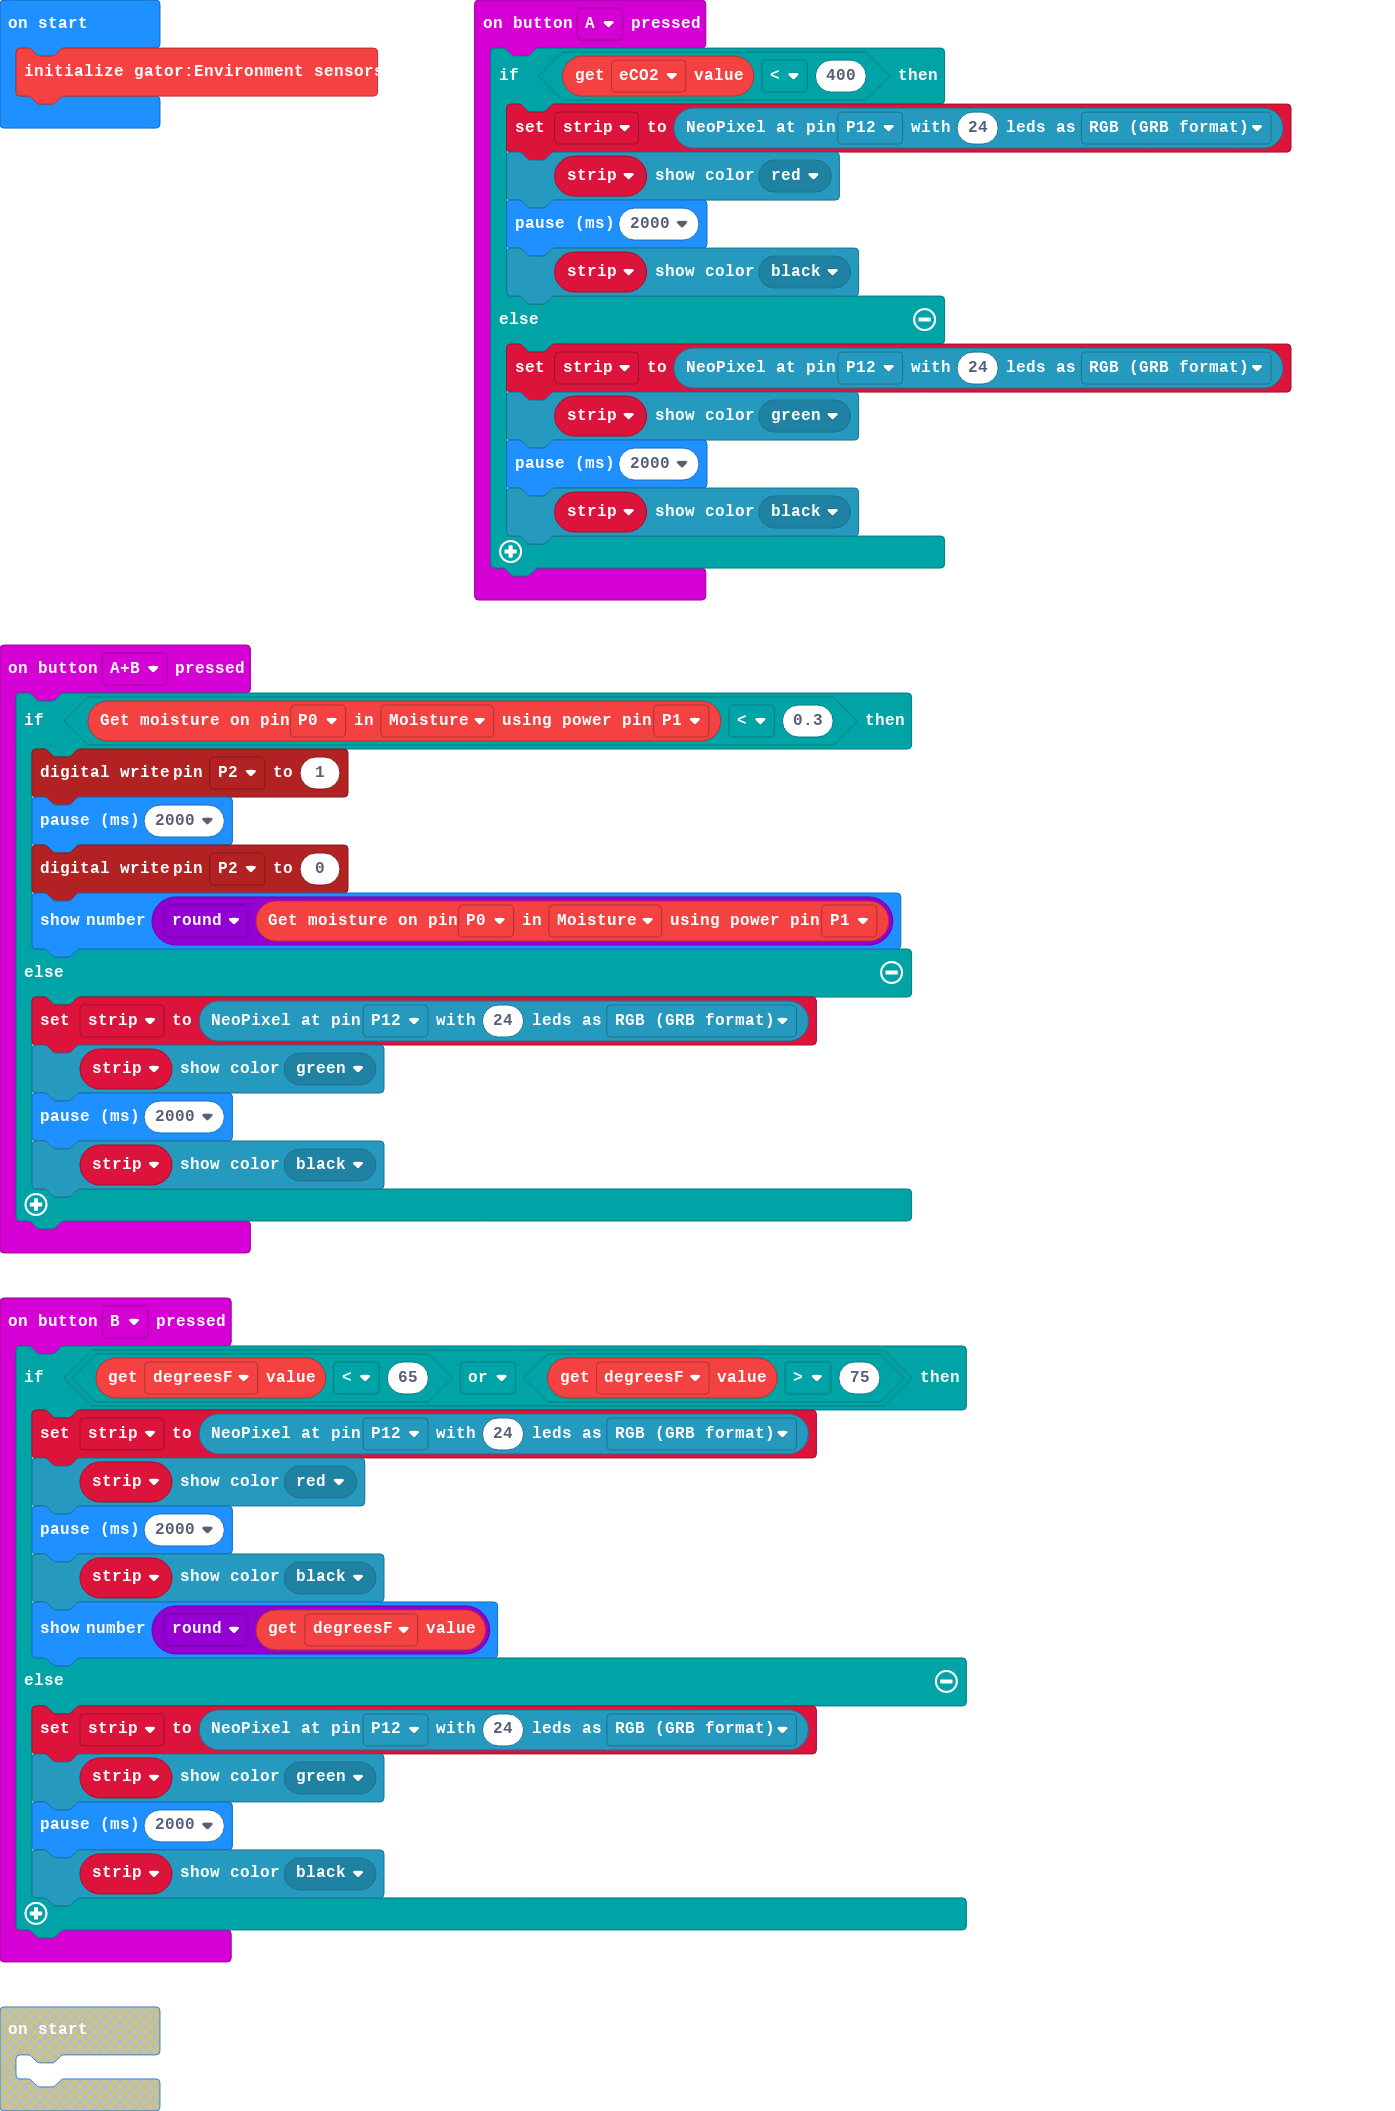
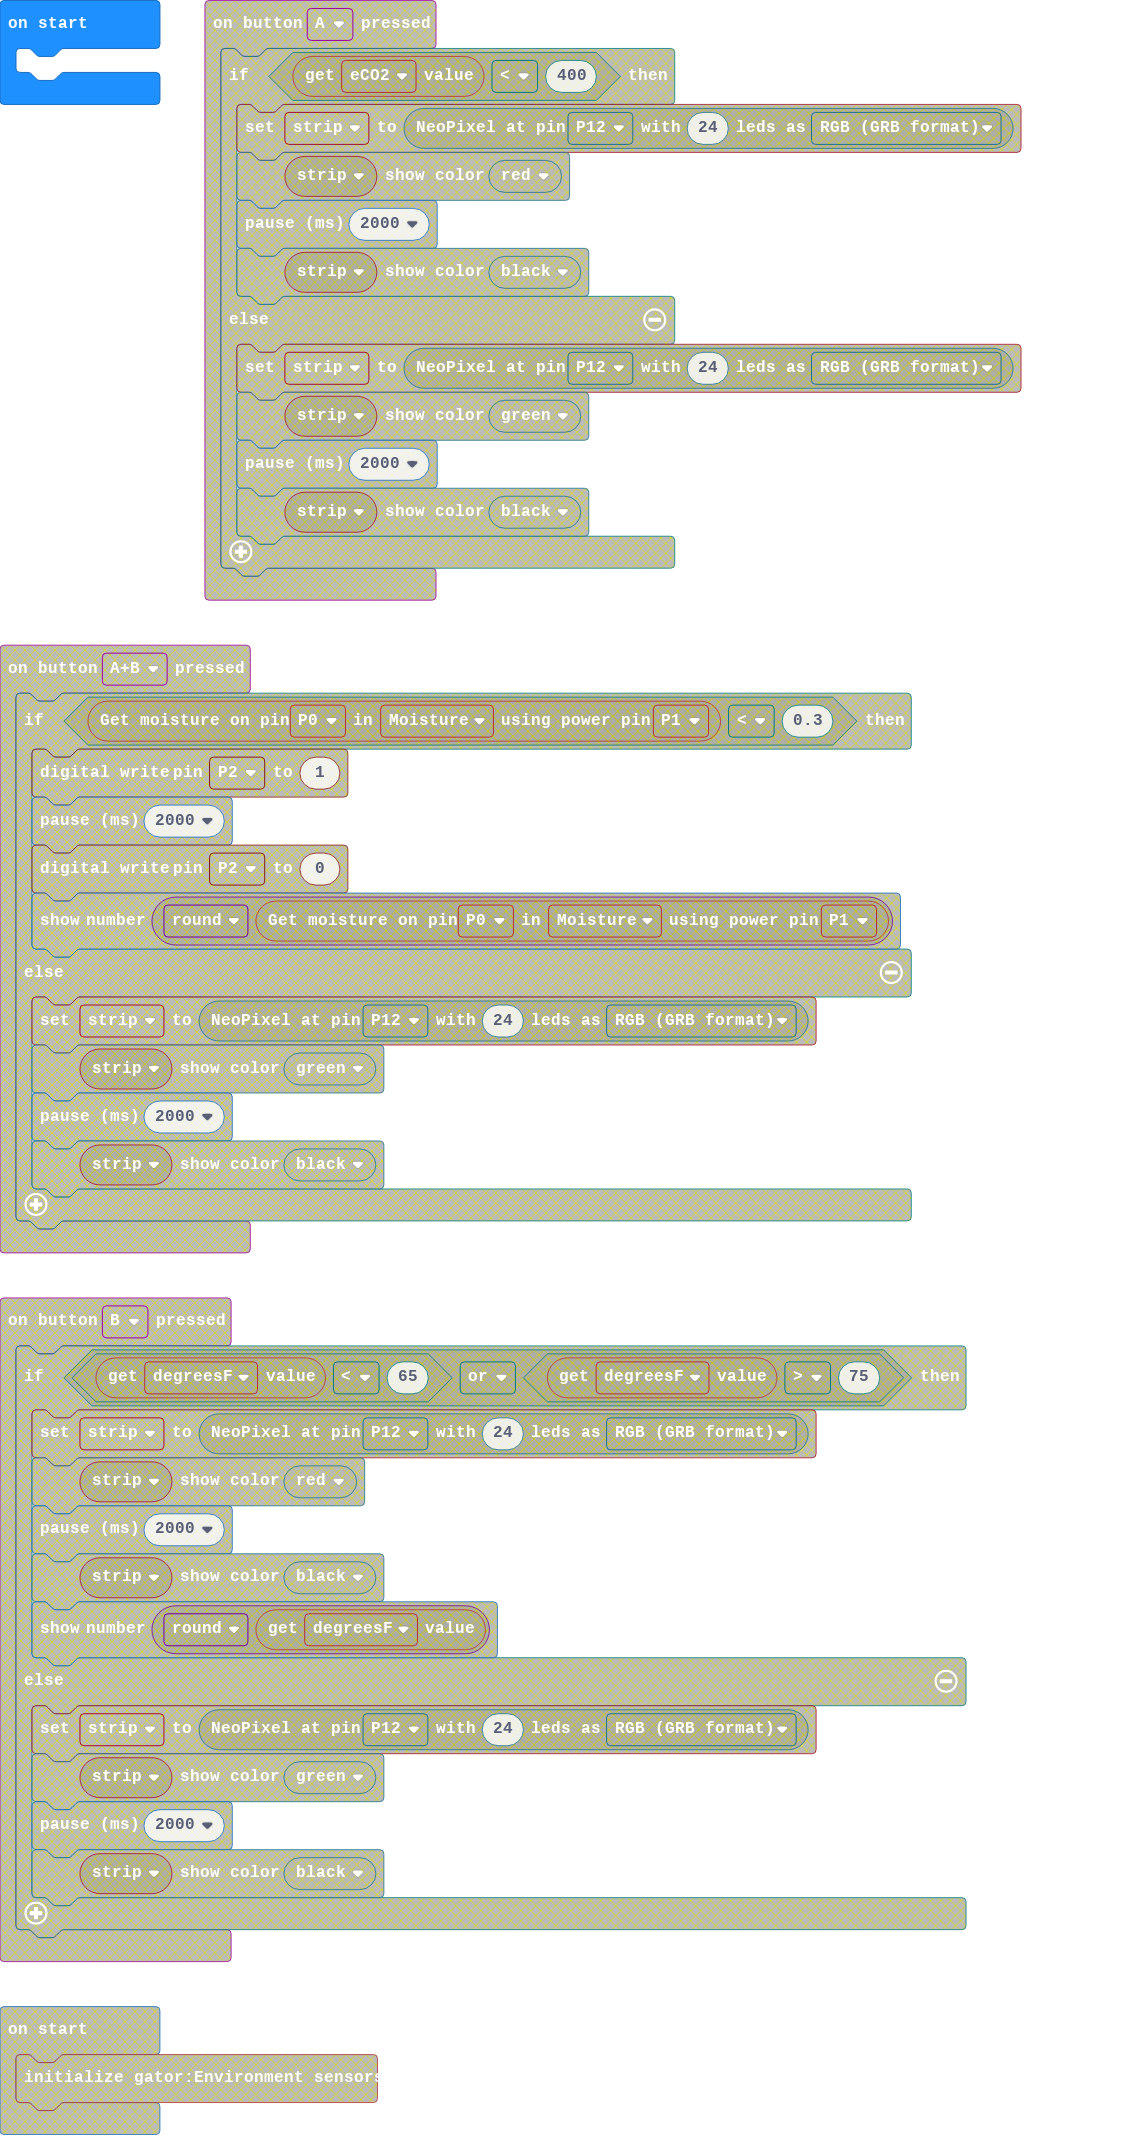
Clear

diff --git a/main.ts b/main.ts
@@ -1,45 +1,3 @@
-input.onButtonPressed(Button.A, function () {
-    if (gatorEnvironment.getMeasurement(measurementType.eCO2) < 400) {
-        strip = neopixel.create(DigitalPin.P12, 24, NeoPixelMode.RGB)
-        strip.showColor(neopixel.colors(NeoPixelColors.Red))
-        basic.pause(2000)
-        strip.showColor(neopixel.colors(NeoPixelColors.Black))
-    } else {
-        strip = neopixel.create(DigitalPin.P12, 24, NeoPixelMode.RGB)
-        strip.showColor(neopixel.colors(NeoPixelColors.Green))
-        basic.pause(2000)
-        strip.showColor(neopixel.colors(NeoPixelColors.Black))
-    }
-})
-input.onButtonPressed(Button.AB, function () {
-    if (gatorSoil.moisture(AnalogPin.P0, GatorSoilType.Moisture, DigitalPin.P1) < 0.3) {
-        pins.digitalWritePin(DigitalPin.P2, 1)
-        basic.pause(2000)
-        pins.digitalWritePin(DigitalPin.P2, 0)
-        basic.showNumber(Math.round(gatorSoil.moisture(AnalogPin.P0, GatorSoilType.Moisture, DigitalPin.P1)))
-    } else {
-        strip = neopixel.create(DigitalPin.P12, 24, NeoPixelMode.RGB)
-        strip.showColor(neopixel.colors(NeoPixelColors.Green))
-        basic.pause(2000)
-        strip.showColor(neopixel.colors(NeoPixelColors.Black))
-    }
-})
-input.onButtonPressed(Button.B, function () {
-    if (gatorEnvironment.getMeasurement(measurementType.degreesF) < 65 || gatorEnvironment.getMeasurement(measurementType.degreesF) > 75) {
-        strip = neopixel.create(DigitalPin.P12, 24, NeoPixelMode.RGB)
-        strip.showColor(neopixel.colors(NeoPixelColors.Red))
-        basic.pause(2000)
-        strip.showColor(neopixel.colors(NeoPixelColors.Black))
-        basic.showNumber(Math.round(gatorEnvironment.getMeasurement(measurementType.degreesF)))
-    } else {
-        strip = neopixel.create(DigitalPin.P12, 24, NeoPixelMode.RGB)
-        strip.showColor(neopixel.colors(NeoPixelColors.Green))
-        basic.pause(2000)
-        strip.showColor(neopixel.colors(NeoPixelColors.Black))
-    }
-})
-let strip: neopixel.Strip = null
-gatorEnvironment.beginEnvironment()
 basic.forever(function () {
 	
 })
